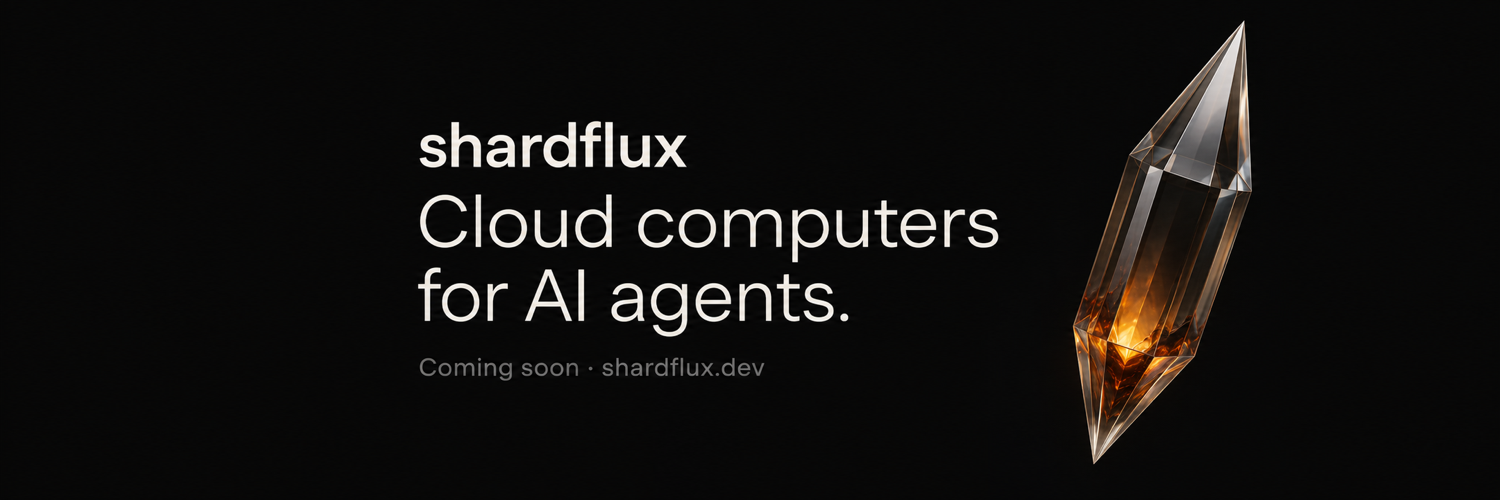
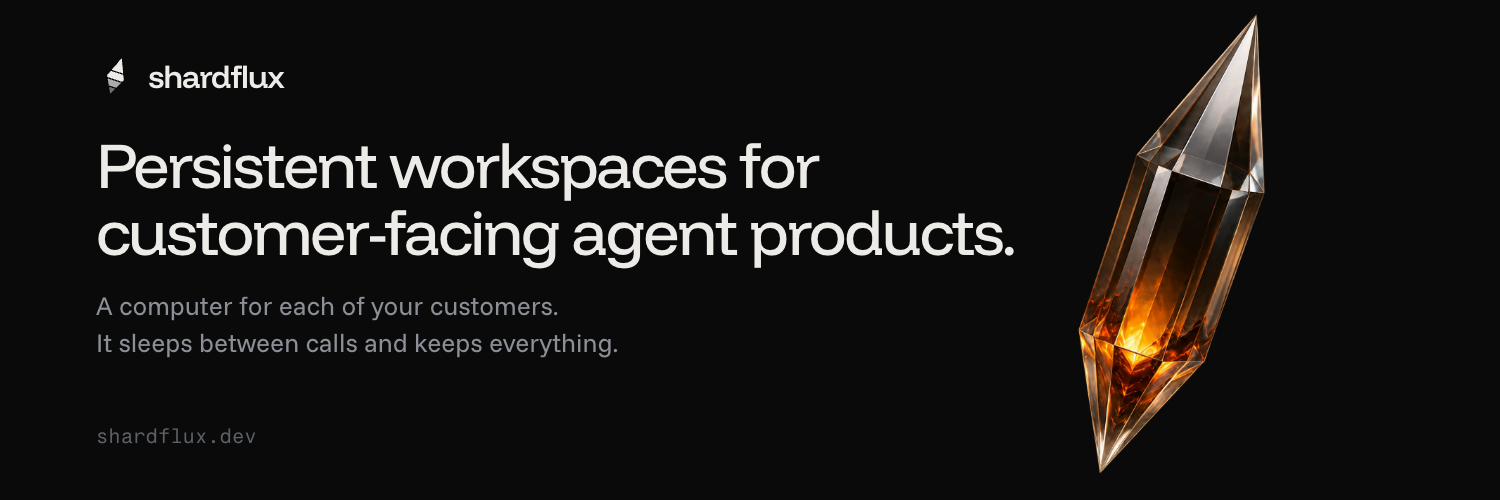
Align the organization profile with the live positioning
Persistent workspaces for customer-facing agent products, as on shardflux.dev:
new banner rendered from the site's brand sources (tokens, fonts, mark, hero shard),
the homepage's product points, the CLI quickstart, cloud agents for your own coding
agents, and links to every client. Removes 'coming soon'.

diff --git a/profile/README.md b/profile/README.md
@@ -1,9 +1,25 @@
 <a href="https://shardflux.dev">
-  <img src="https://raw.githubusercontent.com/shardfluxdev/.github/main/profile/assets/shardflux-banner.png" alt="Shardflux. Cloud computers for AI agents. Coming soon." width="1500">
+  <img src="https://raw.githubusercontent.com/shardfluxdev/.github/main/profile/assets/shardflux-banner.png" alt="Shardflux. Persistent workspaces for customer-facing agent products." width="1500">
 </a>
 
-### You build the agents. We run the machines.
+### Persistent workspaces for customer-facing agent products.
 
-We're building persistent, isolated cloud workspaces for AI agents. Shardflux is coming soon.
+Give each of your customers their own computer for your agent. It sleeps when there is no work, wakes in milliseconds, and keeps every file and running app where they left it.
 
-[Website](https://shardflux.dev) · [Documentation](https://docs.shardflux.dev) · [Support and bugs](https://github.com/shardfluxdev/community) · [Follow on X](https://x.com/Shardfluxdev)
+- **Scales to zero.** When the work stops, the compute bill stops with it. Files, apps and memory stay.
+- **Wakes on the next call.** Your agent's next call wakes it in milliseconds, so your customers never wait on a cold start.
+- **Keeps everything.** Files, packages, running apps and memory stay put. Your customer comes back next week and picks up where they left off.
+- **Forks a new direction.** Copy a running workspace, memory and all, and let two agents try different ideas from the same point.
+- **Isolated by default.** Every customer runs in their own microVM with its own kernel, fully separate from everyone else.
+
+```sh
+npm i -g shardflux
+shard signup
+shard exec acme/demo --template default -- python3 -c 'print(40 + 2)'
+```
+
+**Your own coding agents work here too.** `shard ./` starts Claude Code or Codex on your project in the cloud, with your machine and project ready, and keeps it working when you close your laptop. Open it from your terminal, Claude Desktop or the Codex app.
+
+TypeScript SDK [`@shardflux/sdk`](https://www.npmjs.com/package/@shardflux/sdk) · Python SDK [`shardflux`](https://pypi.org/project/shardflux/) · CLI [`shard`](https://www.npmjs.com/package/shardflux) · [MCP server](https://docs.shardflux.dev/reference/mcp) · [HTTP API](https://docs.shardflux.dev/reference/http-api) · [E2B SDK](https://docs.shardflux.dev/guides/e2b) · [Plugins for Claude Code, Cowork and Codex](https://github.com/shardfluxdev/plugins)
+
+[Website](https://shardflux.dev) · [Quickstart](https://docs.shardflux.dev/quickstart) · [Documentation](https://docs.shardflux.dev) · [Pricing](https://docs.shardflux.dev/limits) · [Support and bugs](https://github.com/shardfluxdev/community) · [Follow on X](https://x.com/Shardfluxdev)
